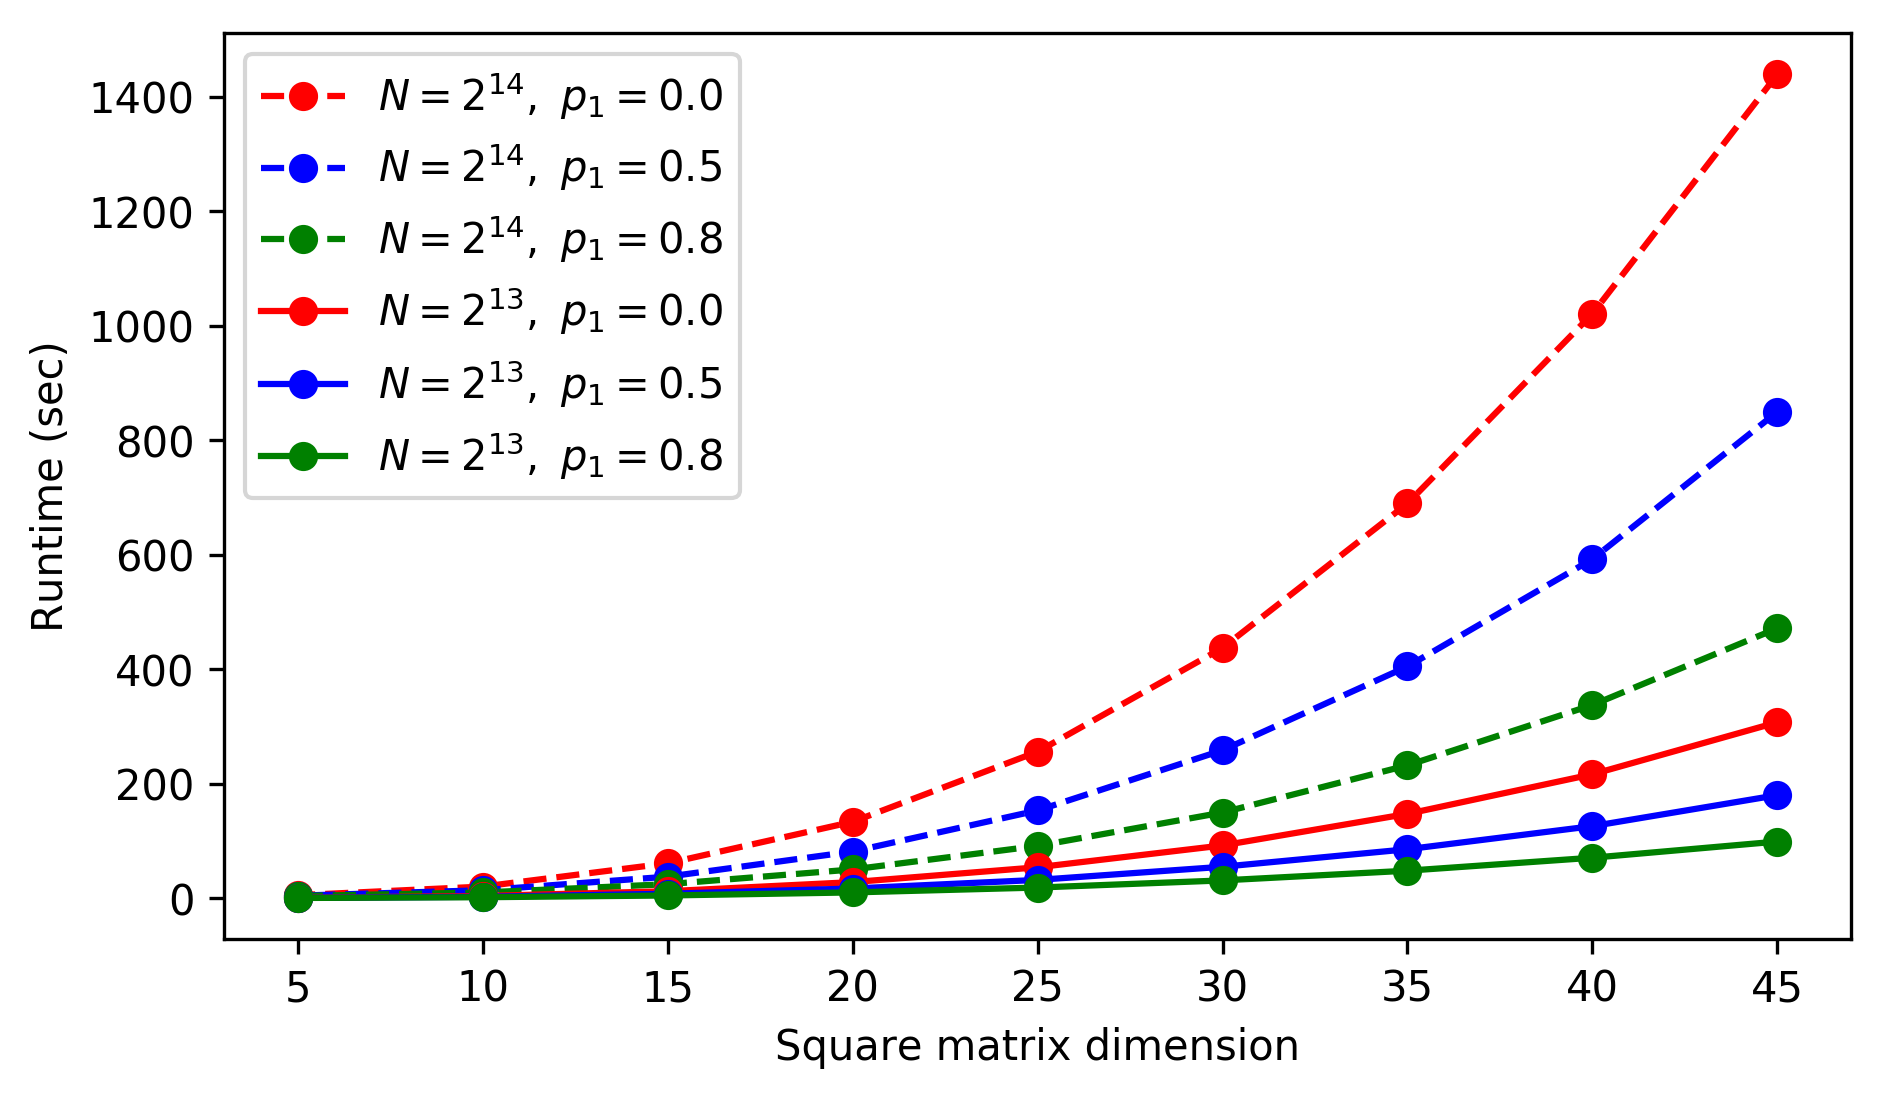
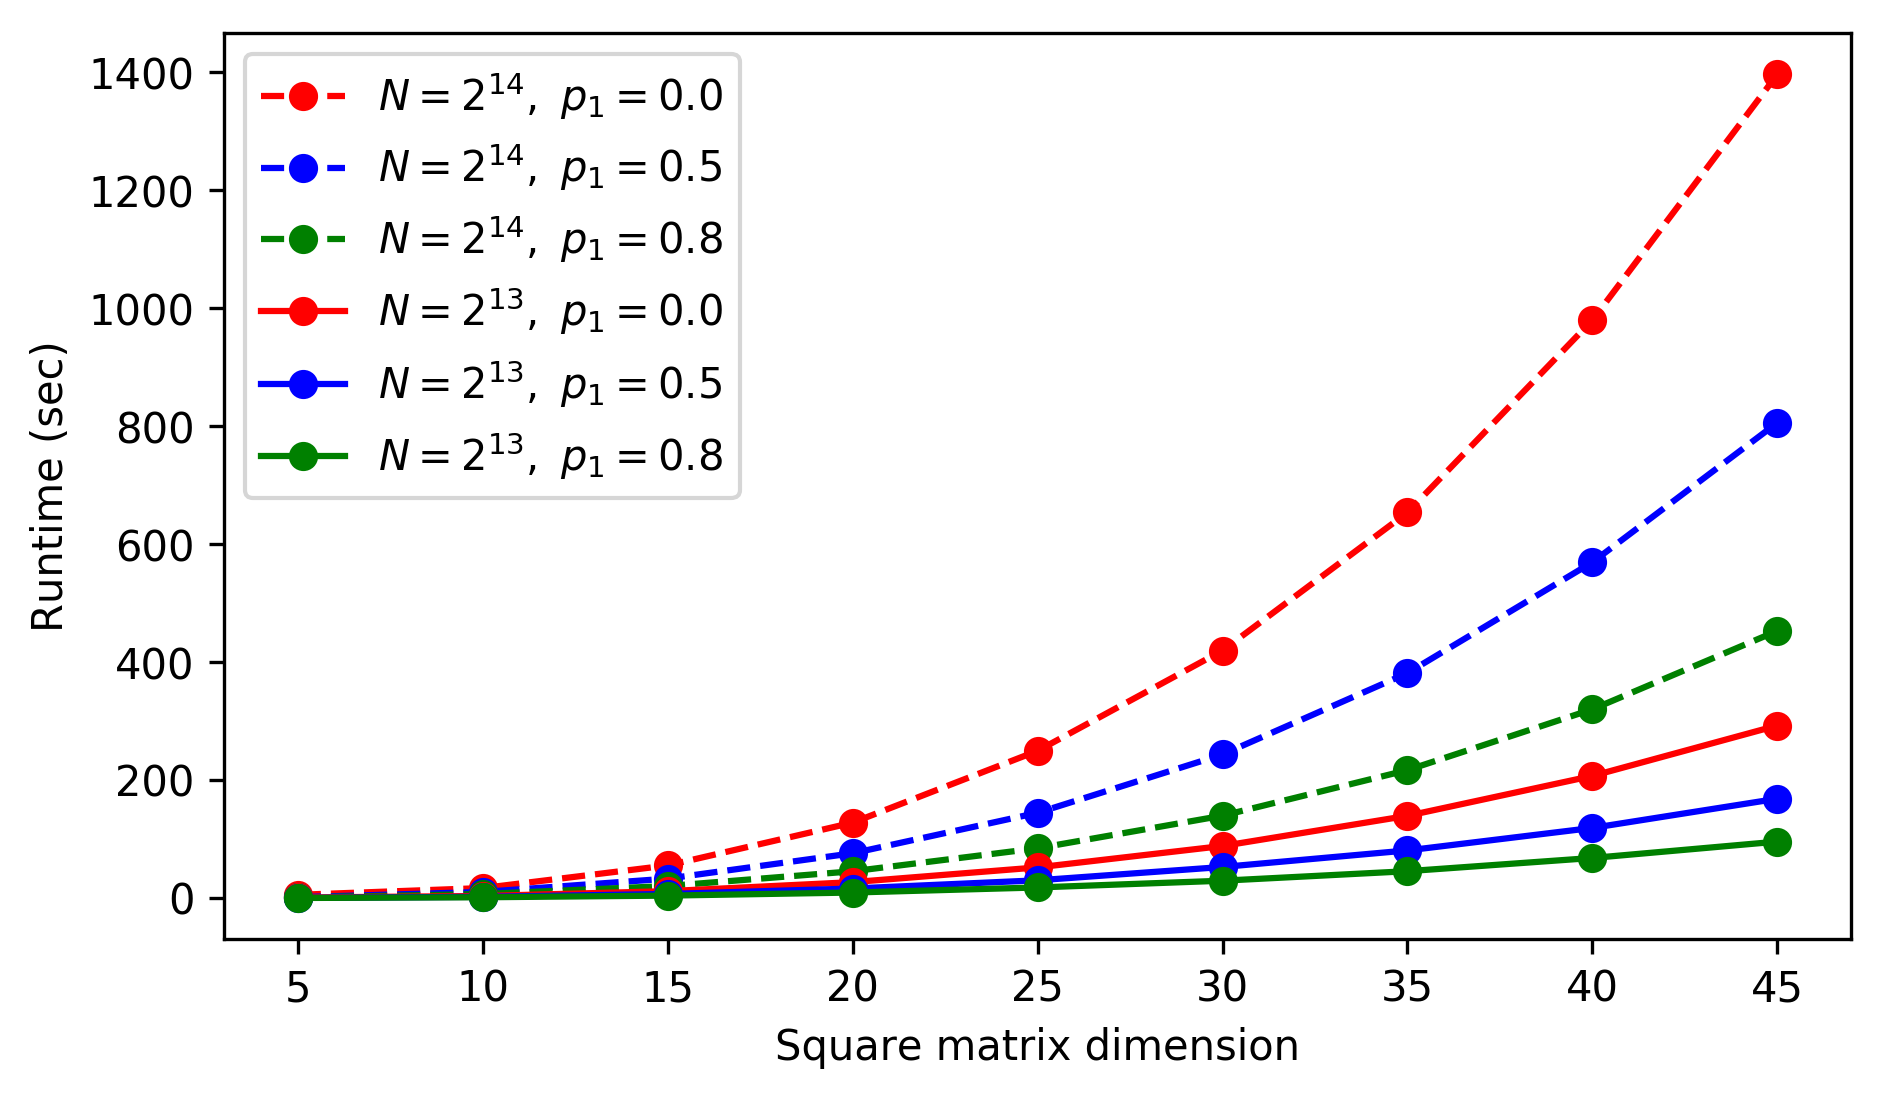
Finished updating GEMM results

diff --git a/benchmarks/GEMM/gemm_timings.py b/benchmarks/GEMM/gemm_timings.py
@@ -14,21 +14,24 @@
 #  limitations under the License.
 # ==============================================================================
 
-import ngraph
+import ngraph_bridge
 import numpy as np
 import tensorflow as tf
 import time
 import sys
 import argparse
 
+
 def gemm_trial(n, p_ones=0, fname="./results.txt"):
     # Pick values not in {-1, 0, 1} for fair comparison
-    ra = np.float32(np.random.choice([-5,-4,-3,-2,2,3,4,5], size=(n,n)))
-    rb = np.float32(np.random.choice([-5,-4,-3,-2,2,3,4,5], size=(n,n)))
+    ra = np.float32(
+        np.random.choice([-5, -4, -3, -2, 2, 3, 4, 5], size=(n, n)))
+    rb = np.float32(
+        np.random.choice([-5, -4, -3, -2, 2, 3, 4, 5], size=(n, n)))
 
     # randomly set entries to 1
     n_ones = int(p_ones * n * n)
-    one_indices = np.random.choice( n * n, n_ones, replace=False)
+    one_indices = np.random.choice(n * n, n_ones, replace=False)
     for i in one_indices:
         row = i // n
         col = i % n
@@ -46,21 +49,25 @@ def gemm_trial(n, p_ones=0, fname="./results.txt"):
     with tf.Session() as sess:
         t0 = time.time()
         f_val = sess.run(f, feed_dict={b: rb, c: 3.})
-        t1 = time.time()-t0
+        t1 = time.time() - t0
         print("Result: ", f_val)
         print("Time: ", t1)
         fp = open(fname, 'a')
-        fp.write('%d, %f, %f, %f\n' % (n, p_zeros, p_ones, t1))
+        fp.write('%d, %f, %f\n' % (n, p_ones, t1))
         fp.close()
+
 
 if __name__ == "__main__":
 
-    parser = argparse.ArgumentParser(description='Rum GEMM timing experiments for he-transformer.')
-    parser.add_argument('--out', help='Name of output CSV file', default='./results.txt')
+    parser = argparse.ArgumentParser(
+        description='Rum GEMM timing experiments for he-transformer.')
+    parser.add_argument(
+        '--out', help='Name of output CSV file', default='./results.txt')
     args = parser.parse_args()
 
     fname = args.out
 
-    for n in [45, 40, 35, 30, 25, 20, 15, 10, 5]:
+    ns = [5, 10, 15, 20, 25, 30, 35, 40, 45]
+    for n in ns:
         for p_ones in [0, 0.5, 0.8]:
             gemm_trial(n=n, p_ones=p_ones, fname=fname)

diff --git a/benchmarks/GEMM/README.md b/benchmarks/GEMM/README.md
@@ -1,0 +1,7 @@
+This folder is used to generate runtime results for the GEMM example.
+
+This example demonstrates a simple example of a small matrix multiplication and addition. This example depends on the [**Intel® nGraph™ Compiler and runtime engine for TensorFlow**](https://github.com/NervanaSystems/ngraph-tf). Make sure the python environment with the ngraph-tf bridge is active, i.e. run `source $HE_TRANSFORMER/build/external/venv-tf-py3/bin/activate`.
+
+Call `./run_timings.sh`
+
+Performance analysis completed on Jan 16, 2019 by Intel using a Xeon Platinum 8180 platform with 112 CPUs operating at 2.5Ghz, 2 sockets, and 376GB of RAM running HE Transformer (v0.2) with nGraph-tf (v 0.9.0) and nGraph (v 0.11.0) on Ubuntu 16.04.4 LTS
